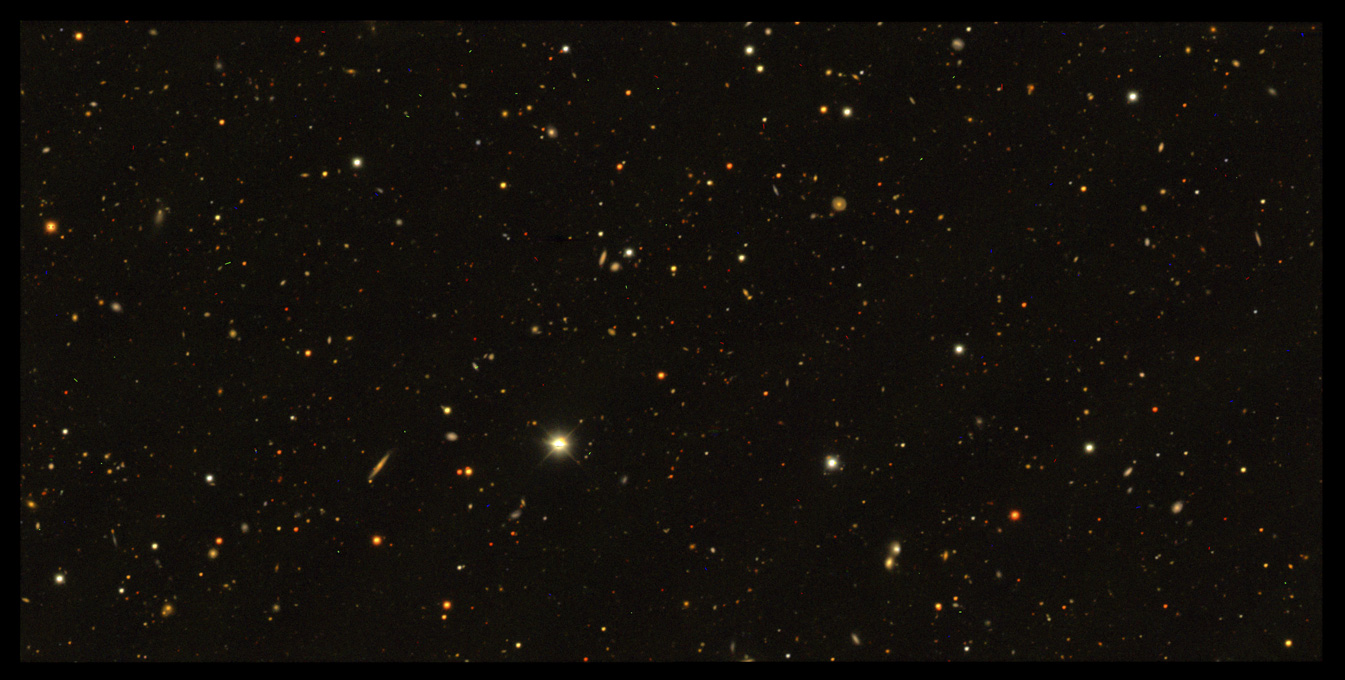
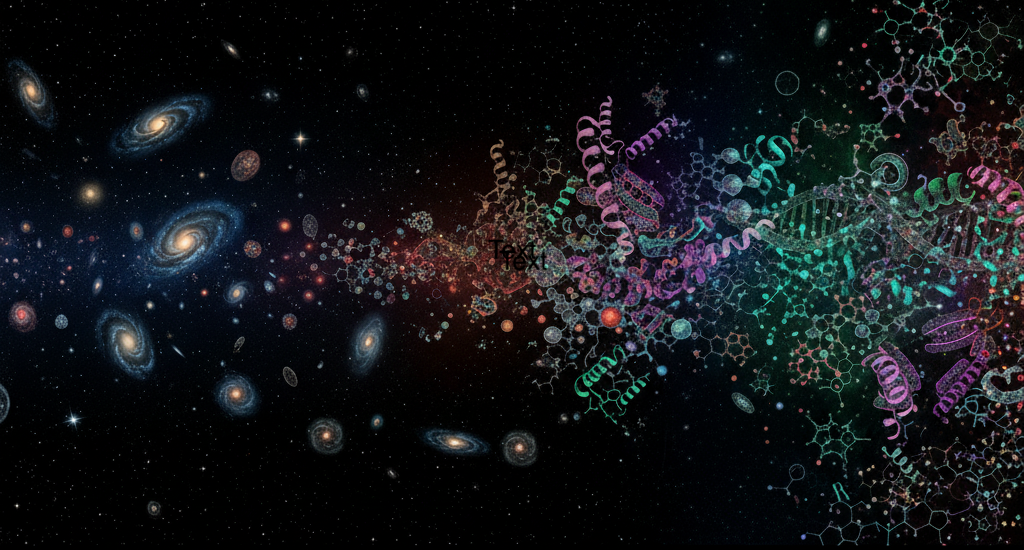
Updates

diff --git a/index.html b/index.html
@@ -103,7 +103,7 @@
                 <div class="content-inner dtablecell">
                     <div class="container">
                         <h1>Pablo Lemos</h1>
-                        <p>Cosmologist</p>
+                        <p>Machine Learning Research Scientist</p>
                     </div>
                 </div>
             </div>
@@ -113,18 +113,19 @@
         <div id="about" class="about">
             <div class="container">
                 <div class="row">
-                    <div class="col-xs-12 col-sm-6 col-md-5 wow fadeInLeft">
+                    <div class="col-xs-12 col-sm-6 col-md-5 wow fI work as a machine learning research scientist at <a href="https://www.sandboxaq.com">SandboxAQ</a>, with a focus on protein folding. I lead the release of <a href="https://www.sandboxaq.com/press/sandboxaq-unveils-sair-structurally-augmented-ic50-repository-a-novel-open-dataset-of-protein-ligand-structures-labelled-by-binding-affinities">SAIR</a>, the largest publicly available dataset of protein-ligand structures.adeInLeft">
                         <div class="author-thumb text-center">
-                            <img class="profile-picture" src="img/author.jpeg" alt="">
+                            <img class="profile-picture" src="img/author.jpg" alt="">
                         </div>
                     </div>
                     <div class="col-xs-12 col-sm-6 col-md-7 wow fadeInRight">
                         <div class="about-intro">
                             <h3>MY NAME IS Pablo Lemos.</h3>
-                            <h5> I work as a postdoctoral Research Fellow in cosmology and machine learning at the <a href="https://mila.quebec/en/">Montrel Institute for Learning Algorithms (MILA)</a> and the <a href="https://ciela.science">CIELA institute</a> at the University of Montreal. </h5>
+                            <h5> I work as a machine learning research scientist at <a href="https://www.sandboxaq.com">SandboxAQ</a>, with a focus on protein folding. I lead the release of <a href="https://www.sandboxaq.com/press/sandboxaq-unveils-sair-structurally-augmented-ic50-repository-a-novel-open-dataset-of-protein-ligand-structures-labelled-by-binding-affinities">SAIR</a>, the largest publicly available dataset of protein-ligand structures. </h5>
                             <span class="divider"></span>
-                            <p> My work focuses on applying machine learning tools to various problems in astrophysics and cosmology. I am very interested in graph neural networks, symbolic regression and simulation-based inference amongst other things. 
-                            <p> I co-lead the accelerated forward modelling group at the Simons Collaboration in <a href="https://www.learning-the-universe.org">Learning the Universe</a>. I am also a member of the <a href="https://www.darkenergysurvey.org">Dark Energy Survey (DES)</a>.
+                            <p> I am very interested in generative machine learning, and sampling algorithms.
+                            <p> In the past, I worked in structure-based protein design at <a href="https://www.dreamfold.ai">Dreamfold</a>, and I was a postdoctoral researcher at <a href="https://mila.quebec/en">Mila</a>, working on GFlowNets, and other generative machine learning methods.
+                            <p> Before that, I worked in astrophysics. I got a Ph.D. from the <a href="https://www.cam.ac.uk">University of Cambridge</a>. I co-lead the accelerated forward modelling group at the Simons Collaboration in <a href="https://www.learning-the-universe.org">Learning the Universe</a>, and also contributed to the cosmological analyses of the <a href="https://www.darkenergysurvey.org">Dark Energy Survey (DES)</a>, and the <a href=" https://www.cosmos.esa.int/web/planck/planck-collaboration">Planck Collaboration</a>.
                         </div>
                         </div>
                     </div>
@@ -149,7 +150,7 @@
 
                             </div>
                             <h4 class="heading">Publications</h4>
-                            <a href="https://inspirehep.net/authors/1703381">Open</a>
+                            <a href="https://scholar.google.com/citations?user=AklQTTsAAAAJ&hl=en">Open</a>
                         </div>
                     </div>
                     
